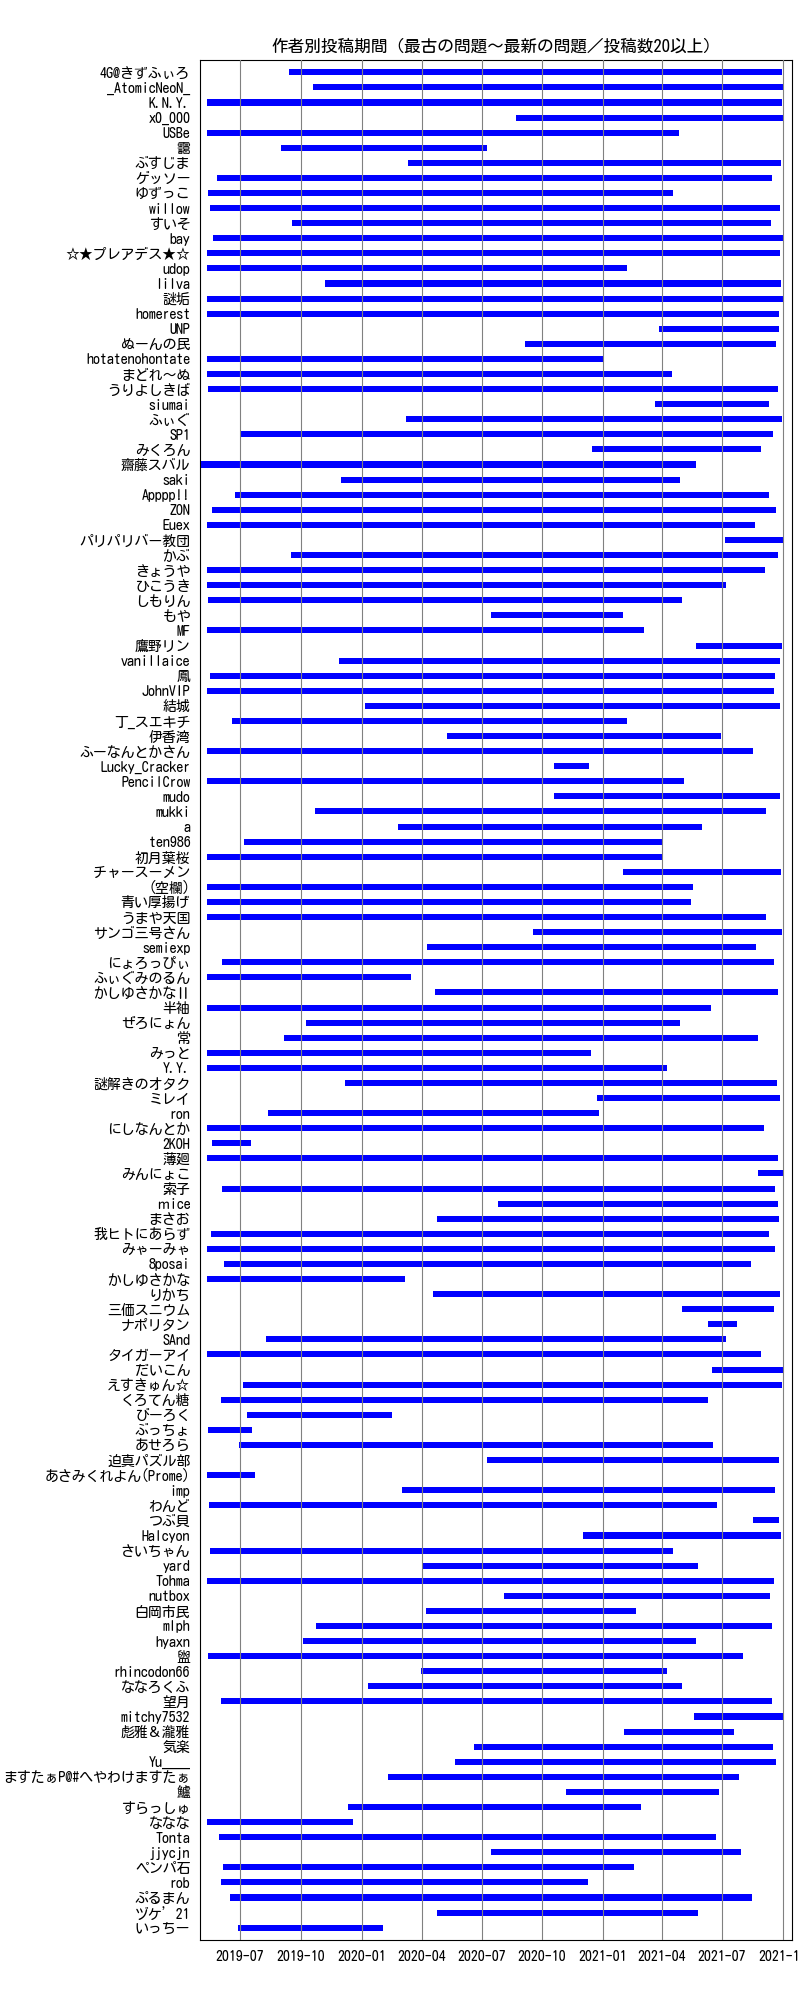
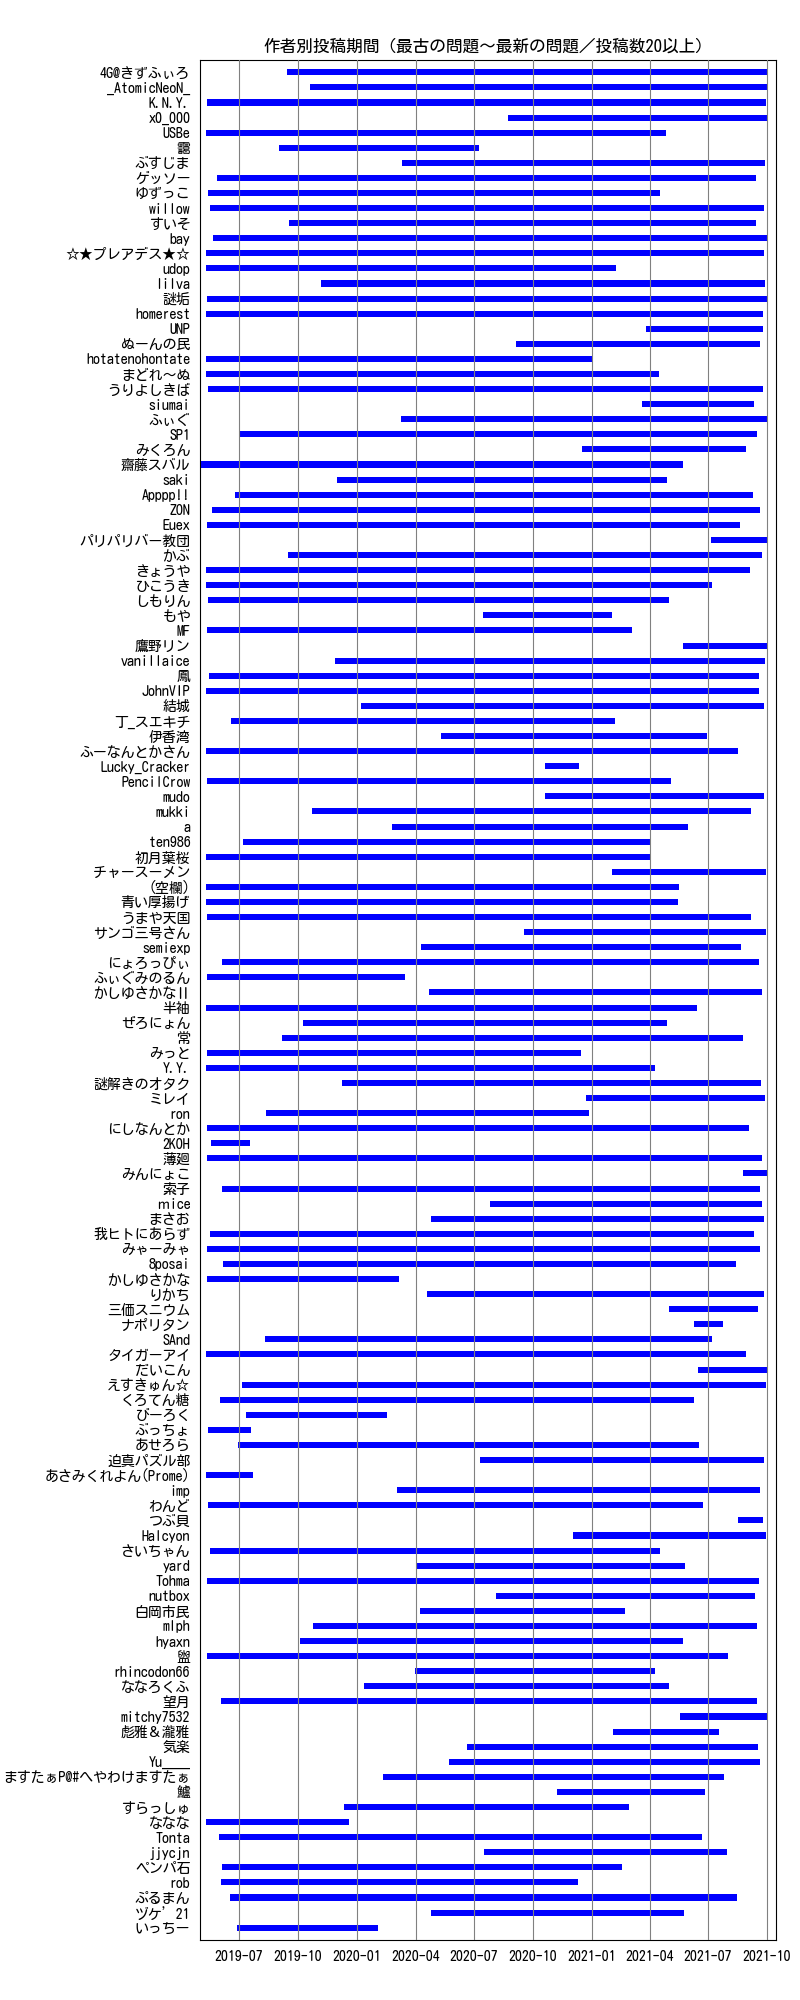
グラフの端が切れていた

diff --git a/python/graph-span.py b/python/graph-span.py
@@ -52,7 +52,7 @@ def plot_span_categories(data: dict, is_author: bool):
     ax.tick_params(width=0, which="both")
     pyplot.subplot().margins(0.05, 0.005)
     pyplot.grid(axis="x", which="both", c="grey")
-    pyplot.subplots_adjust(left=0.25, right=0.99, top=0.97, bottom=0.03)
+    pyplot.subplots_adjust(left=0.25, right=0.97, top=0.97, bottom=0.03)
     pyplot.xlim(datetime.fromisoformat("2019-05-01 00:00:00"), datetime.today())
 
     pyplot.title(name_display + "別投稿期間（最古の問題～最新の問題／投稿数" + str(limit) + "以上）")
